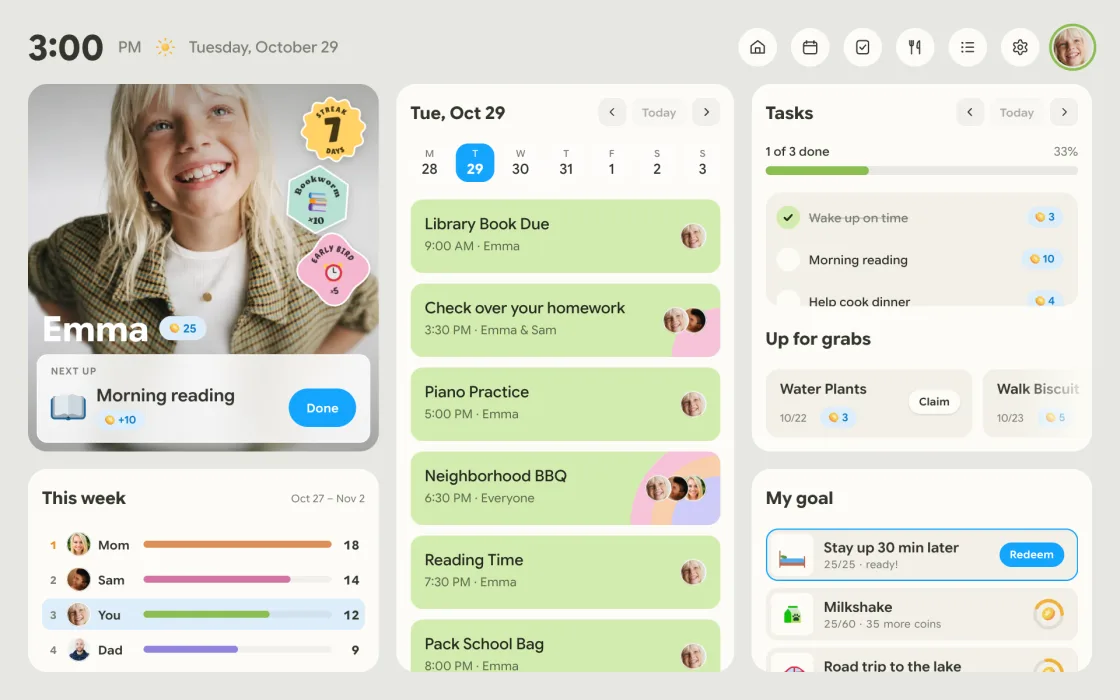
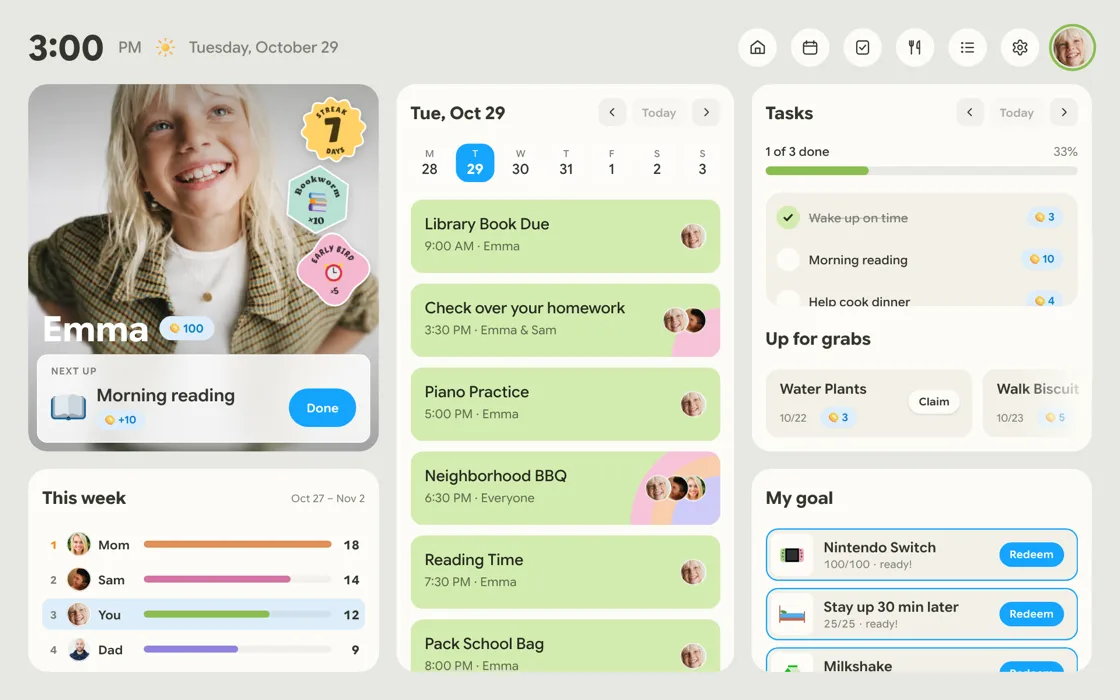
Nestify archive: rewards beat redeems the Nintendo Switch
Kid starts at 90 coins with the Switch pinned first in My goal; the
celebration card reads gift name, You got it!, then the coin cost.
Mobile rewards stills re-captured.

diff --git a/nestify-archive/nestify-hub-v2/js/app.js b/nestify-archive/nestify-hub-v2/js/app.js
@@ -759,7 +759,7 @@
 
   // ---------- 金币 / 任务 / 奖励 ----------
   const state = {
-    balance: 22,
+    balance: 90,
     tasks: [
       { name: 'Wake up on time', icon: 'assets/emoji/23f0.svg', coins: 3, done: true, when: 'Morning' },
       { name: 'Morning reading', icon: 'assets/emoji/1f4d6.svg', coins: 10, done: false, when: 'Morning' },
@@ -847,13 +847,13 @@
     sortRewards();
   }
 
-  // 按"快完成"排：攒够的最前，其余按进度（已攒 / 目标）从高到低，兑换过的沉底；顺序变了就让条目滑到新位置
+  // 按"快完成"排：目标（Switch）钉在最前，其余攒够的在前，其余按进度（已攒 / 目标）从高到低，兑换过的沉底；顺序变了就让条目滑到新位置
   function sortRewards() {
     const list = $('.reward-list', s2);
     if (!list) return;
     const items = $$('.reward', list);
-    const key = li => { const r = rewardById(li.dataset.id); return [r.done ? 1 : 0, -Math.min(1, state.balance / r.cost), r.cost]; };
-    const cmp = (a, b) => { const x = key(a), y = key(b); return x[0] - y[0] || x[1] - y[1] || x[2] - y[2]; };
+    const key = li => { const r = rewardById(li.dataset.id); return [r.done ? 1 : 0, r.id === 'switch' ? 0 : 1, -Math.min(1, state.balance / r.cost), r.cost]; };
+    const cmp = (a, b) => { const x = key(a), y = key(b); return x[0] - y[0] || x[1] - y[1] || x[2] - y[2] || x[3] - y[3]; };
     const next = [...items].sort(cmp);
     if (next.every((li, i) => li === items[i])) return;
     const before = new Map(items.map(li => [li, li.getBoundingClientRect().top]));
@@ -1196,9 +1196,9 @@
     root.innerHTML = `<canvas class="confetti"></canvas>
       <div class="cele-card" role="dialog" aria-label="Reward redeemed">
         <div class="cele-badge"><i></i><img src="${art}" alt=""></div>
+        <p class="cele-name">${name}</p>
         <p class="cele-title"><svg viewBox="0 0 24 24"><path d="M12 2.5l2.7 6.2 6.8.6-5.2 4.5 1.6 6.6L12 16.9l-5.9 3.5 1.6-6.6-5.2-4.5 6.8-.6z"/></svg>You got it!<svg viewBox="0 0 24 24"><path d="M12 2.5l2.7 6.2 6.8.6-5.2 4.5 1.6 6.6L12 16.9l-5.9 3.5 1.6-6.6-5.2-4.5 6.8-.6z"/></svg></p>
-        <p class="cele-sub">Emma redeemed</p>
-        <div class="cele-item st"><img src="${art}" alt=""><p>${name}</p><span class="chip badge badge--coin"><img class="coin" src="assets/2714f.svg" alt=""><b>−${cost}</b></span></div>
+        <div class="cele-cost"><span class="chip badge badge--coin badge--lg"><img class="coin" src="assets/2714f.svg" alt=""><b>−${cost}</b></span></div>
       </div>`;
     $('.frame.on').append(root);
     const close = () => {

diff --git a/nestify-archive/nestify-hub-v2/components.css b/nestify-archive/nestify-hub-v2/components.css
@@ -519,7 +519,7 @@ img.coin { width: 14px; height: 12.5px; transform: rotate(41.92deg); flex-shrink
 .celebrate.out .cele-card { animation: cele-out 280ms var(--ease-out) both; }
 @keyframes cele-in { from { opacity: 0; transform: translateY(14px) scale(0.86); } }
 @keyframes cele-out { to { opacity: 0; transform: scale(0.94); } }
-.cele-badge { position: relative; width: 96px; height: 96px; margin: 0 auto 16px; border-radius: 50%;
+.cele-badge { position: relative; width: 96px; height: 96px; margin: 0 auto 24px; border-radius: 50%;
   background: var(--gold-soft);
   box-shadow: inset 0 0 0 3px var(--glass-4), 0 8px 24px rgba(240, 178, 60, 0.35);
   display: flex; align-items: center; justify-content: center;
@@ -529,15 +529,11 @@ img.coin { width: 14px; height: 12.5px; transform: rotate(41.92deg); flex-shrink
 .cele-badge img { width: 62px; height: 62px; object-fit: contain; filter: drop-shadow(0 3px 4px rgba(120, 80, 0, 0.18)); }
 @keyframes badge-pop { from { transform: scale(0.3) rotate(-18deg); opacity: 0; } }
 @keyframes halo { from { transform: scale(0.9); opacity: 1; } to { transform: scale(1.35); opacity: 0; } }
-.cele-title { display: flex; align-items: center; justify-content: center; gap: 8px; font-size: var(--fs-title); font-weight: 700; line-height: 1.2; color: var(--ink); translate: none; }
-.cele-title svg { width: 18px; height: 18px; fill: var(--gold); }
-.cele-sub { margin-top: 4px; font-size: var(--fs-caption); color: var(--muted); translate: none; }
-.cele-item {
-  --sc: var(--glass-5); margin-top: 18px; display: flex; align-items: center; gap: 10px;
-  height: 52px; padding: 0 12px; border-radius: var(--r-lg); background: var(--glass-2); text-align: left;
-}
-.cele-item > img { width: 32px; height: 32px; object-fit: contain; }
-.cele-item p { flex: 1; font-size: var(--fs-body-sm); font-weight: 600; translate: none; }
+/* 礼物名 → You got it! → 花了多少币：从上到下读一遍就是一句话 */
+.cele-name { font-size: var(--fs-title); font-weight: 700; line-height: 1.2; color: var(--ink); translate: none; }
+.cele-title { margin-top: 6px; display: flex; align-items: center; justify-content: center; gap: 6px; font-size: var(--fs-body); font-weight: 500; line-height: 1.3; color: var(--muted); translate: none; }
+.cele-title svg { width: 16px; height: 16px; fill: var(--gold); }
+.cele-cost { margin-top: 16px; }
 
 @media (prefers-reduced-motion: reduce) {
   .cele-card, .cele-badge, .cele-badge i { animation: none; }

diff --git a/nestify-archive/nestify-hub-v2/index.html b/nestify-archive/nestify-hub-v2/index.html
@@ -318,7 +318,7 @@
       <!-- 现在：孩子最先要知道的一件事——下一个任务（做完得几个金币）和下一件事还有多久 -->
       <article class="tile card st now">
         <img class="now-photo" src="assets/profile/photo.webp" alt="Emma">
-        <div class="now-id"><p class="now-name-big">Emma</p><div class="tasks-coins badge badge--coin badge--lg now-balance" aria-label="Coins earned"><img class="coin" src="assets/2714f.svg" alt=""><b data-coins>22</b></div></div>
+        <div class="now-id"><p class="now-name-big">Emma</p><div class="tasks-coins badge badge--coin badge--lg now-balance" aria-label="Coins earned"><img class="coin" src="assets/2714f.svg" alt=""><b data-coins>90</b></div></div>
         <!-- 勋章贴在她的照片上（像社交软件的个人主页）：只贴已获得的 -->
         <div class="now-stickers">
           <svg class="sticker-defs" aria-hidden="true"><defs><path id="sk-arc-top" d="M24.63,59.23 A27,27 0 1 1 75.37,59.23"/><path id="sk-arc-bot" d="M15.23,37.35 A37,37 0 1 0 84.77,37.35"/></defs></svg>
@@ -521,7 +521,7 @@
         <div class="seg cp-seg rw-seg" role="tablist">
           <button type="button" data-cat="all" aria-pressed="true">All</button><button type="button" data-cat="treat">Treats</button><button type="button" data-cat="fun">Fun</button><button type="button" data-cat="big">Big wishes</button>
         </div>
-        <div class="chip badge badge--coin rw-balance" aria-label="Coin balance"><img class="coin" src="assets/2714f.svg" alt=""><b data-balance>22</b></div>
+        <div class="chip badge badge--coin rw-balance" aria-label="Coin balance"><img class="coin" src="assets/2714f.svg" alt=""><b data-balance>90</b></div>
         <button class="btn btn--neutral btn--sm rw-hist-btn" type="button" aria-expanded="false">Redeem history</button>
       </div>
       <div class="rw-body scroll"></div>

diff --git a/nestify-archive/hub-v2-embed.js b/nestify-archive/hub-v2-embed.js
@@ -85,12 +85,11 @@
   }
   new MutationObserver(() => { injectTasks(); layoutChanged(); }).observe(tkCols, { childList: true });
 
-  /* ---------- Rewards：idle 永远是「Stay up 30 min later 刚好攒够、还没兑」 ----------
-     新版孩子页 My goal 里只有 Switch / Stay up / Milkshake / Road trip 四个（state 里的
-     Ice Cream 已经没有卡片了），而起始 22 币一个都换不了——所以这一拍先把余额补到
-     刚好够 Stay up（25），Redeem 亮起来；play 真的点它（扣币、彩纸、庆祝卡都是 app.js
+  /* ---------- Rewards：idle 永远是「Nintendo Switch 刚好攒够、还没兑」 ----------
+     兑的是 My goal 里钉在最前的大目标 Switch（100）。起始 90 币还差一点，所以这一拍先把
+     余额补到刚好够（100），Redeem 亮起来；play 真的点它（扣币、彩纸、庆祝卡都是 app.js
      自己的）。读者往回滚再进来时还原成「刚好够」，离开这一拍还原成起始余额。 */
-  const PICK = state.rewards.find(r => r.id === 'stay-up');
+  const PICK = state.rewards.find(r => r.id === 'switch');
   const BAL0 = state.balance;
   function resetRewards(bal) {
     $$('.celebrate').forEach(el => el.remove());
@@ -102,7 +101,7 @@
     P.rwPage.renderHistory();
   }
   function playRewards() {
-    $('#s2 .reward[data-id="stay-up"] .btn')?.click();
+    $('#s2 .reward[data-id="switch"] .btn')?.click();
   }
 
   /* ---------- Meals：两道菜被收藏，飞进右边 My collection 的顶上 ----------

diff --git a/nestify-archive/hub.js b/nestify-archive/hub.js
@@ -817,7 +817,7 @@
      rewards-play 这一张 2026-08-30 就从静态图换成了播一次的动图。没有这个
      查询串，已经缓存过旧图的读者永远看不到新的，而且完全无声无息。
      改图就改这个数。 */
-  const STILL_V = '?v=20261018d';
+  const STILL_V = '?v=20261019a';
   const stillSrc = tok => 'assets/hub/still-' + tok.replace('|', '-') + '.webp' + STILL_V;
   const warmed = new Set();
   let stillTok = '';
